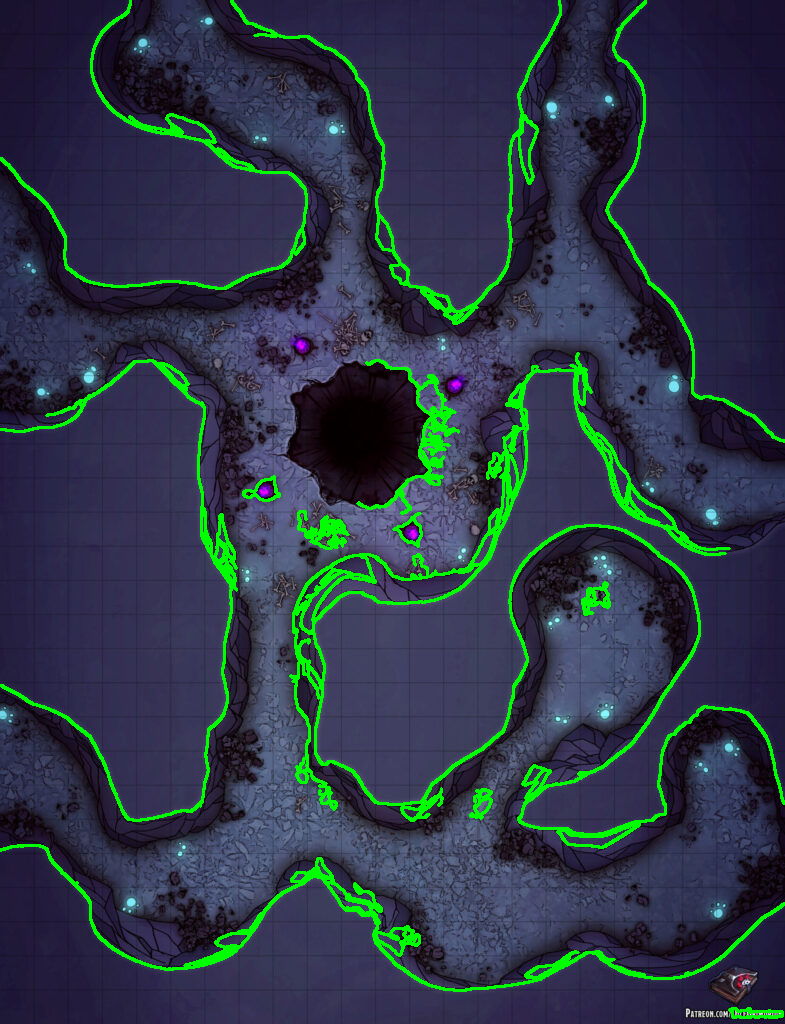
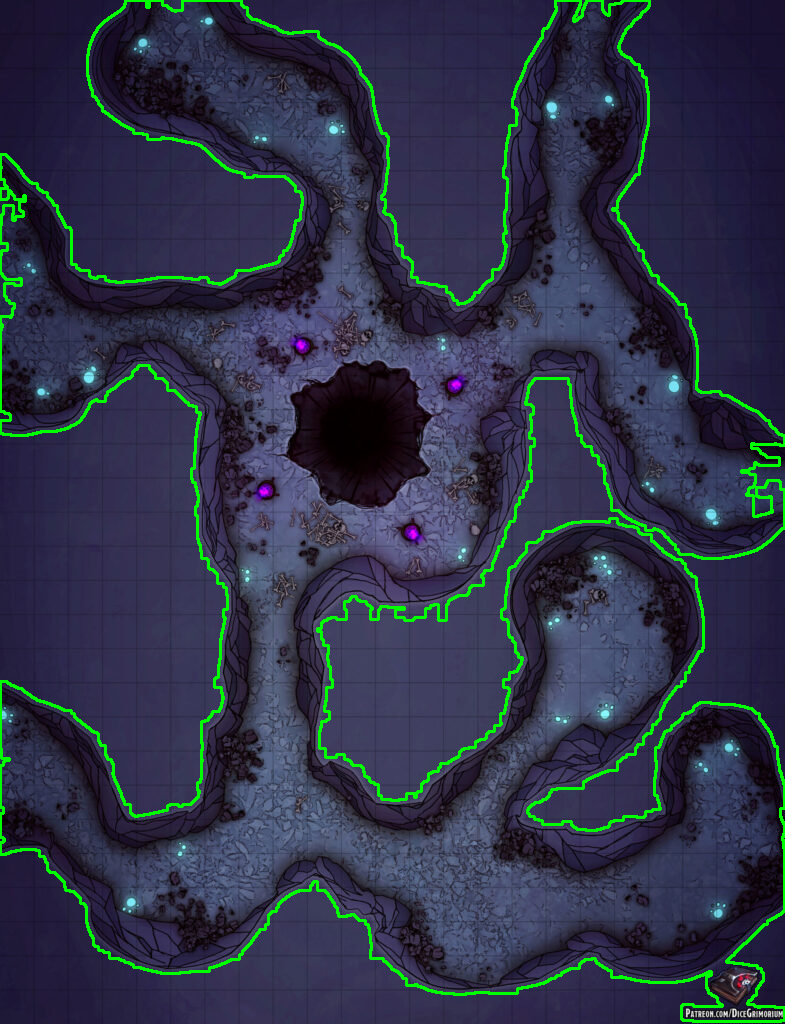
min distance merge setting

diff --git a/src/wall_detection/detector.py b/src/wall_detection/detector.py
@@ -9,7 +9,7 @@ def detect_walls(image, min_contour_area=100, max_contour_area=None, blur_kernel
     - image: Input image
     - min_contour_area: Minimum area of contours to keep (filters small artifacts)
     - max_contour_area: Maximum area of contours to keep (None means no upper limit)
-    - blur_kernel_size: Kernel size for Gaussian blur
+    - blur_kernel_size: Kernel size for Gaussian blur (use 1 for no blur)
     - canny_threshold1: Lower threshold for Canny edge detection
     - canny_threshold2: Upper threshold for Canny edge detection
     
@@ -18,8 +18,11 @@ def detect_walls(image, min_contour_area=100, max_contour_area=None, blur_kernel
     """
     gray = cv2.cvtColor(image, cv2.COLOR_BGR2GRAY)
 
-    # Apply Gaussian Blur to reduce noise
-    blurred = cv2.GaussianBlur(gray, (blur_kernel_size, blur_kernel_size), 0)
+    # Apply Gaussian Blur to reduce noise if blur_kernel_size > 1
+    if blur_kernel_size > 1:
+        blurred = cv2.GaussianBlur(gray, (blur_kernel_size, blur_kernel_size), 0)
+    else:
+        blurred = gray  # No blur if kernel size is 1
 
     # Apply Canny edge detection
     edges = cv2.Canny(blurred, canny_threshold1, canny_threshold2)
@@ -53,7 +56,7 @@ def draw_walls(image, contours, color=(0, 255, 0), thickness=2):
     cv2.drawContours(image_with_walls, contours, -1, color, thickness)
     return image_with_walls
 
-def merge_contours(image, contours, dilation_iterations=2, return_dilated_image=False):
+def merge_contours(image, contours, dilation_iterations=2, min_merge_distance=3):
     """
     Merge nearby or overlapping contours by dilating and re-detecting contours.
     
@@ -61,10 +64,11 @@ def merge_contours(image, contours, dilation_iterations=2, return_dilated_image=
     - image: Input image (used for dimensions)
     - contours: List of contours to merge
     - dilation_iterations: Number of dilation iterations to perform
-    - return_dilated_image: If True, return the dilated image instead of contours
+    - min_merge_distance: Minimum distance (in pixels) between contours to be merged
+                          Controls the kernel size for dilation
     
     Returns:
-    - List of merged contours or the dilated image (if return_dilated_image is True)
+    - List of merged contours
     """
     # Create an empty mask
     mask = np.zeros(image.shape[:2], dtype=np.uint8)
@@ -72,12 +76,15 @@ def merge_contours(image, contours, dilation_iterations=2, return_dilated_image=
     # Draw the contours onto the mask
     cv2.drawContours(mask, contours, -1, 255, thickness=cv2.FILLED)
 
-    # Dilate the mask to merge nearby contours
-    kernel = np.ones((3, 3), np.uint8)
-    dilated_mask = cv2.dilate(mask, kernel, iterations=dilation_iterations)
+    # Adjust kernel size based on min_merge_distance
+    # Use default 3x3 kernel for min_merge_distance=3 to maintain backward compatibility
+    kernel_size = max(3, min_merge_distance)
+    if kernel_size % 2 == 0:  # Ensure kernel size is odd
+        kernel_size += 1
+    kernel = np.ones((kernel_size, kernel_size), np.uint8)
 
-    if return_dilated_image:
-        return dilated_mask
+    # Dilate the mask to merge nearby contours
+    dilated_mask = cv2.dilate(mask, kernel, iterations=dilation_iterations)
 
     # Find contours again from the dilated mask
     merged_contours, _ = cv2.findContours(dilated_mask, cv2.RETR_EXTERNAL, cv2.CHAIN_APPROX_SIMPLE)

diff --git a/src/gui/app.py b/src/gui/app.py
@@ -40,9 +40,10 @@ class WallDetectionApp(QMainWindow):
         self.sliders = {}
         self.add_slider("Min Area", 0, 1000, 100)
         self.add_slider("Max Area", 0, 10000, 10000)
-        self.add_slider("Blur", 3, 21, 5, step=2)
+        self.add_slider("Blur", 1, 21, 5, step=2)  # Changed min value from 3 to 1
         self.add_slider("Canny1", 0, 255, 50)
         self.add_slider("Canny2", 0, 255, 150)
+        self.add_slider("Min Merge Distance", 1, 20, 3)  # Default is 3 to match original behavior
 
         # Buttons
         self.buttons_layout = QHBoxLayout()
@@ -117,10 +118,14 @@ class WallDetectionApp(QMainWindow):
         min_area = self.sliders["Min Area"].value()
         max_area = self.sliders["Max Area"].value()
         blur = self.sliders["Blur"].value()
-        if blur % 2 == 0:
-            blur += 1  # Ensure blur kernel size is odd
+        
+        # Handle special case for blur=1 (no blur) and ensure odd values
+        if blur > 1 and blur % 2 == 0:
+            blur += 1  # Ensure kernel size is odd when > 1
+        
         canny1 = self.sliders["Canny1"].value()
         canny2 = self.sliders["Canny2"].value()
+        min_merge_distance = self.sliders["Min Merge Distance"].value()
 
         # Preprocess the image
         blurred_image = cv2.GaussianBlur(cv2.cvtColor(self.current_image, cv2.COLOR_BGR2GRAY), (blur, blur), 0)
@@ -133,17 +138,30 @@ class WallDetectionApp(QMainWindow):
 
         # Merge before Min Area if specified
         if self.merge_before_min_area.isChecked():
-            contours = merge_contours(self.current_image, contours)
+            contours = merge_contours(
+                self.current_image, 
+                contours, 
+                min_merge_distance=min_merge_distance
+            )
 
         # Filter contours by area
         contours = [c for c in contours if cv2.contourArea(c) >= min_area]
 
         # Merge after Min Area if specified
         if self.merge_after_min_area.isChecked():
-            contours = merge_contours(self.current_image, contours)
+            contours = merge_contours(
+                self.current_image, 
+                contours, 
+                min_merge_distance=min_merge_distance
+            )
 
-        # Draw merged contours
-        self.processed_image = draw_walls(self.current_image, contours)
+        # Ensure contours are not empty
+        if not contours:
+            print("No contours found after processing.")
+            self.processed_image = self.current_image.copy()
+        else:
+            # Draw merged contours
+            self.processed_image = draw_walls(self.current_image, contours)
 
         # Convert to QPixmap and display
         rgb_image = convert_to_rgb(self.processed_image)
